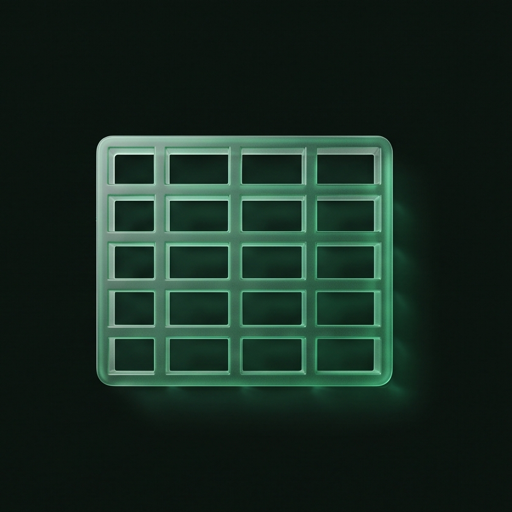
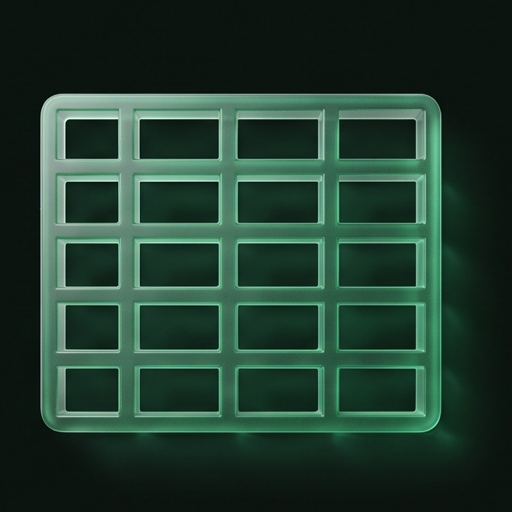
Ikony temat se prepinaji podle svetleho/tmaveho rezimu
- svetla varianta sady vygenerovana image-to-image z puvodni mrizky
  (nano_banana_pro + reference na tmavou mrizku) => identicke tvary,
  jen prestylovane pro svetle pozadi (public/images/tools/*-light.png)
- nova komponenta ToolGlassIcon: dve <Image> prepinane cistym CSS
  (dark:hidden / hidden dark:block) - okamzite pri zmene motivu, bez JS;
  pouzita v MaterialsTiles i BankBrowser (lucide fallback zustava)
- obe sady preriznuty tesneji (74 % bunky) - ikona vyplni cip, na 56px
  uz neni mrnava/bleda

diff --git a/src/components/BankBrowser.tsx b/src/components/BankBrowser.tsx
@@ -23,8 +23,8 @@ import {
 } from "lucide-react";
 import type { Lang } from "@/lib/content";
 import type { BankItem } from "@/lib/materials";
-import Image from "next/image";
-import { toolLabel, countMaterials, materialTypeOf, TOOL_ICON } from "@/lib/bankLabels";
+import { toolLabel, countMaterials, materialTypeOf } from "@/lib/bankLabels";
+import { ToolGlassIcon, hasToolGlassIcon } from "@/components/ToolGlassIcon";
 
 /** Rozhraní UI textů banky (CZ/EN). */
 const STR: Record<
@@ -243,7 +243,6 @@ export function BankBrowser({ items, lang }: { items: BankItem[]; lang: Lang }) 
       {!showList && (
         <ul className="mt-6 grid grid-cols-2 gap-3 sm:grid-cols-3 sm:gap-4">
           {tiles.map((t) => {
-            const iconSrc = TOOL_ICON[t.name];
             const Icon = toolIcon(t.name);
             return (
               <li key={t.name}>
@@ -252,14 +251,8 @@ export function BankBrowser({ items, lang }: { items: BankItem[]; lang: Lang }) 
                   onClick={() => setTool(t.name)}
                   className="glass group flex w-full flex-col items-start gap-3 rounded-2xl p-5 text-left transition hover:-translate-y-0.5 hover:shadow-lg hover:shadow-accent-600/15"
                 >
-                  {iconSrc ? (
-                    <Image
-                      src={iconSrc}
-                      alt=""
-                      width={112}
-                      height={112}
-                      className="h-14 w-14 rounded-xl object-cover ring-1 ring-black/20 transition duration-300 group-hover:scale-105 group-hover:ring-accent-500/40 dark:ring-white/10"
-                    />
+                  {hasToolGlassIcon(t.name) ? (
+                    <ToolGlassIcon tool={t.name} />
                   ) : (
                     <span className="flex h-14 w-14 items-center justify-center rounded-xl bg-accent-500/15 text-accent-600 transition group-hover:bg-accent-600 group-hover:text-white dark:text-accent-300">
                       <Icon className="h-6 w-6" />

diff --git a/src/components/MaterialsTiles.tsx b/src/components/MaterialsTiles.tsx
@@ -1,11 +1,11 @@
 "use client";
 
 import Link from "next/link";
-import Image from "next/image";
 import { Files, ArrowRight } from "lucide-react";
 import { useLang } from "@/lib/i18n";
 import { Reveal } from "@/components/Reveal";
-import { toolLabel, countMaterials, TOOL_ICON } from "@/lib/bankLabels";
+import { toolLabel, countMaterials } from "@/lib/bankLabels";
+import { ToolGlassIcon, hasToolGlassIcon } from "@/components/ToolGlassIcon";
 
 /** Dlaždice oborů na homepage = „ochutnávka" banky; proklik rovnou na obor. */
 export function MaterialsTiles({
@@ -35,21 +35,14 @@ export function MaterialsTiles({
 
         <Reveal as="ul" stagger className="mt-8 grid grid-cols-2 gap-3 sm:grid-cols-3 sm:gap-4">
           {tiles.map((t) => {
-            const iconSrc = TOOL_ICON[t.tool];
             return (
               <li key={t.tool}>
                 <Link
                   href={`${bankHref}?tema=${encodeURIComponent(t.tool)}`}
                   className="glass group flex h-full flex-col items-start gap-3 rounded-2xl p-5 transition hover:-translate-y-0.5 hover:shadow-lg hover:shadow-accent-600/15"
                 >
-                  {iconSrc ? (
-                    <Image
-                      src={iconSrc}
-                      alt=""
-                      width={112}
-                      height={112}
-                      className="h-14 w-14 rounded-xl object-cover ring-1 ring-black/20 transition duration-300 group-hover:scale-105 group-hover:ring-accent-500/40 dark:ring-white/10"
-                    />
+                  {hasToolGlassIcon(t.tool) ? (
+                    <ToolGlassIcon tool={t.tool} />
                   ) : (
                     <span className="flex h-14 w-14 items-center justify-center rounded-xl bg-accent-500/15 text-accent-600 transition group-hover:bg-accent-600 group-hover:text-white dark:text-accent-300">
                       <Files className="h-6 w-6" />

diff --git a/src/components/ToolGlassIcon.tsx b/src/components/ToolGlassIcon.tsx
@@ -1,0 +1,41 @@
+"use client";
+
+import Image from "next/image";
+import { TOOL_ICON, TOOL_ICON_LIGHT } from "@/lib/bankLabels";
+
+/**
+ * 3D skleněná ikona tématu s variantou pro světlý/tmavý režim.
+ * Přepínání řeší čistě CSS (`dark:`), takže funguje okamžitě při změně
+ * motivu bez JS. Když téma ikonu nemá, nevykreslí nic (volající řeší fallback).
+ */
+export function ToolGlassIcon({ tool }: { tool: string }) {
+  const dark = TOOL_ICON[tool];
+  const light = TOOL_ICON_LIGHT[tool];
+  if (!dark) return null;
+
+  const base =
+    "h-14 w-14 rounded-xl object-cover ring-1 transition duration-300 group-hover:scale-105 group-hover:ring-accent-500/40";
+  return (
+    <>
+      <Image
+        src={light ?? dark}
+        alt=""
+        width={112}
+        height={112}
+        className={`${base} ring-black/10 dark:hidden`}
+      />
+      <Image
+        src={dark}
+        alt=""
+        width={112}
+        height={112}
+        className={`${base} hidden ring-white/10 dark:block`}
+      />
+    </>
+  );
+}
+
+/** Má téma vlastní skleněnou ikonu? (jinak volající ukáže lucide fallback) */
+export function hasToolGlassIcon(tool: string): boolean {
+  return Boolean(TOOL_ICON[tool]);
+}

diff --git a/src/lib/bankLabels.ts b/src/lib/bankLabels.ts
@@ -20,7 +20,7 @@ export function toolLabel(tool: string, lang: Lang): string {
   return TOOL_LABEL[tool]?.[lang] ?? tool;
 }
 
-/** 3D skleněné ikony témat (Higgsfield, jednotný frosted-emerald styl). */
+/** 3D skleněné ikony témat (Higgsfield, jednotný frosted-emerald styl) – tmavá varianta. */
 export const TOOL_ICON: Record<string, string> = {
   "Digitální gramotnost": "/images/tools/digitalni-gramotnost.png",
   Word: "/images/tools/word.png",
@@ -28,6 +28,16 @@ export const TOOL_ICON: Record<string, string> = {
   Python: "/images/tools/python.png",
   Databáze: "/images/tools/databaze.png",
   "Power BI": "/images/tools/powerbi.png",
+};
+
+/** Světlá varianta týchž ikon (stejné tvary, přestylované pro light mode). */
+export const TOOL_ICON_LIGHT: Record<string, string> = {
+  "Digitální gramotnost": "/images/tools/digitalni-gramotnost-light.png",
+  Word: "/images/tools/word-light.png",
+  Excel: "/images/tools/excel-light.png",
+  Python: "/images/tools/python-light.png",
+  Databáze: "/images/tools/databaze-light.png",
+  "Power BI": "/images/tools/powerbi-light.png",
 };
 
 export function countMaterials(n: number, lang: Lang): string {
